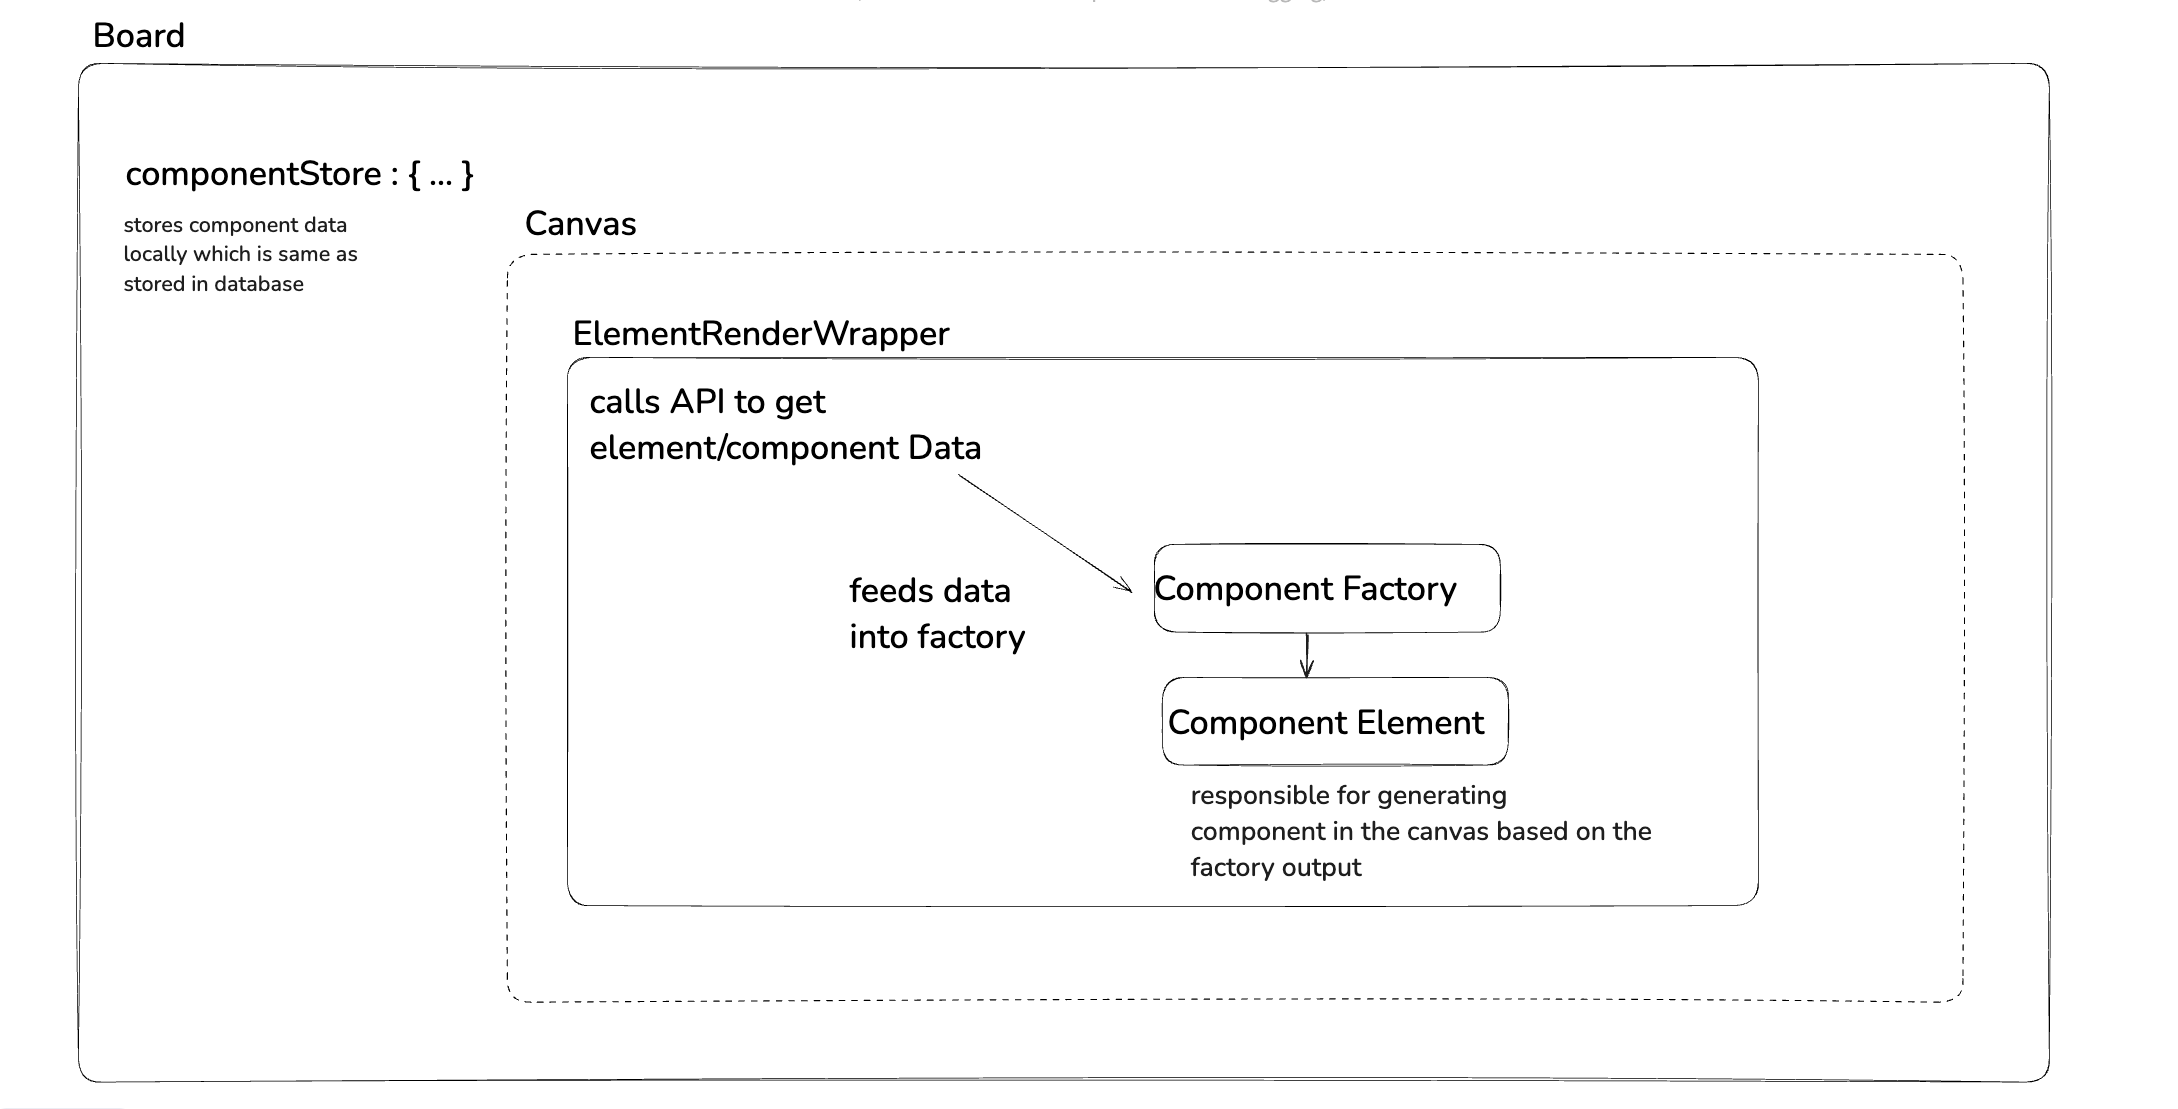
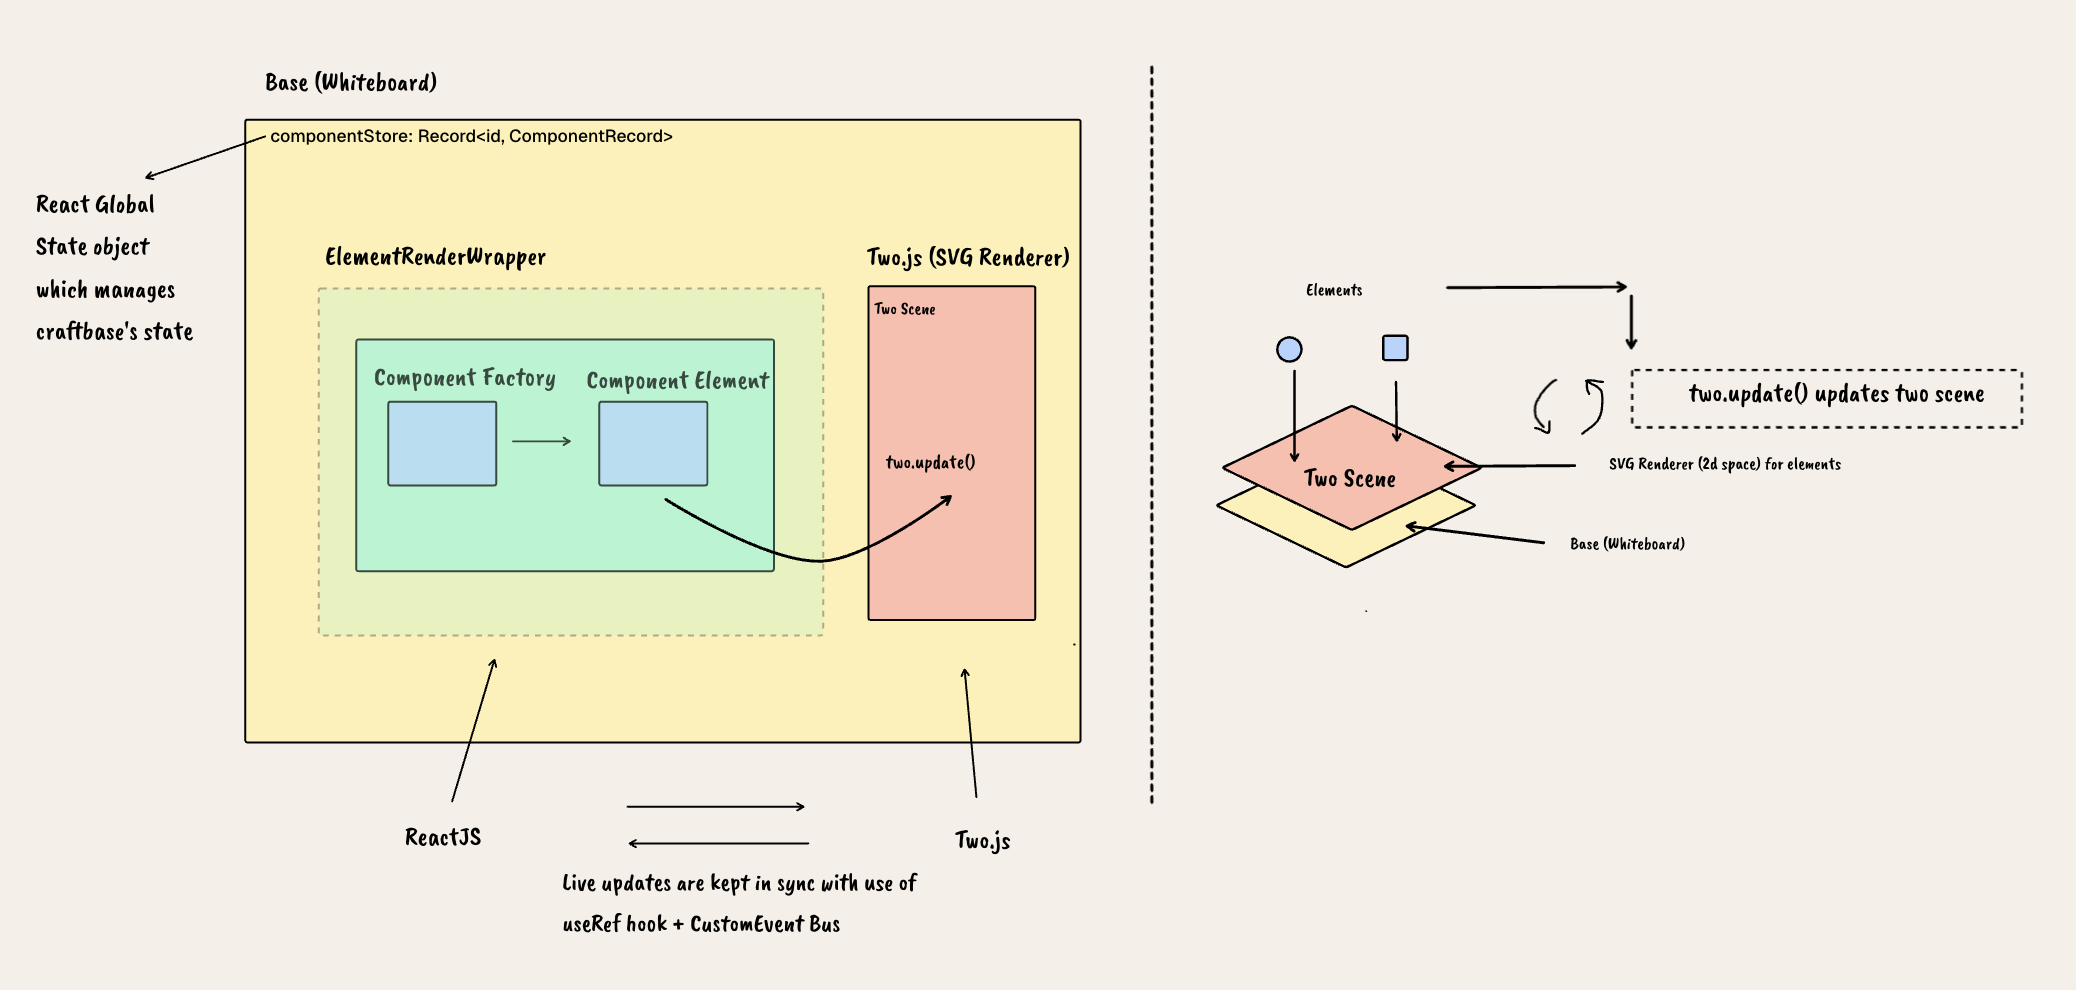
update: version bump and minor bug fix

diff --git a/src/components/common/tooltip.tsx b/src/components/common/tooltip.tsx
@@ -42,6 +42,12 @@ interface Pos {
     left: number
 }
 
+// Touch devices synthesize mouseenter/focus on tap, which would leave a hint
+// stuck on screen after every tap. Hints are a hover affordance, so skip them
+// when the primary input can't hover.
+const canHover = (): boolean =>
+    !window.matchMedia?.('(hover: none)')?.matches
+
 /**
  * Lightweight, dependency-free tooltip.
  *
@@ -73,7 +79,7 @@ const Tooltip = ({
     const [pos, setPos] = useState<Pos | null>(null)
 
     const show = useCallback((): void => {
-        if (disabled || !label) return
+        if (disabled || !label || !canHover()) return
         const open = (): void => {
             const el = triggerRef.current
             if (el) setAnchor(el.getBoundingClientRect())
